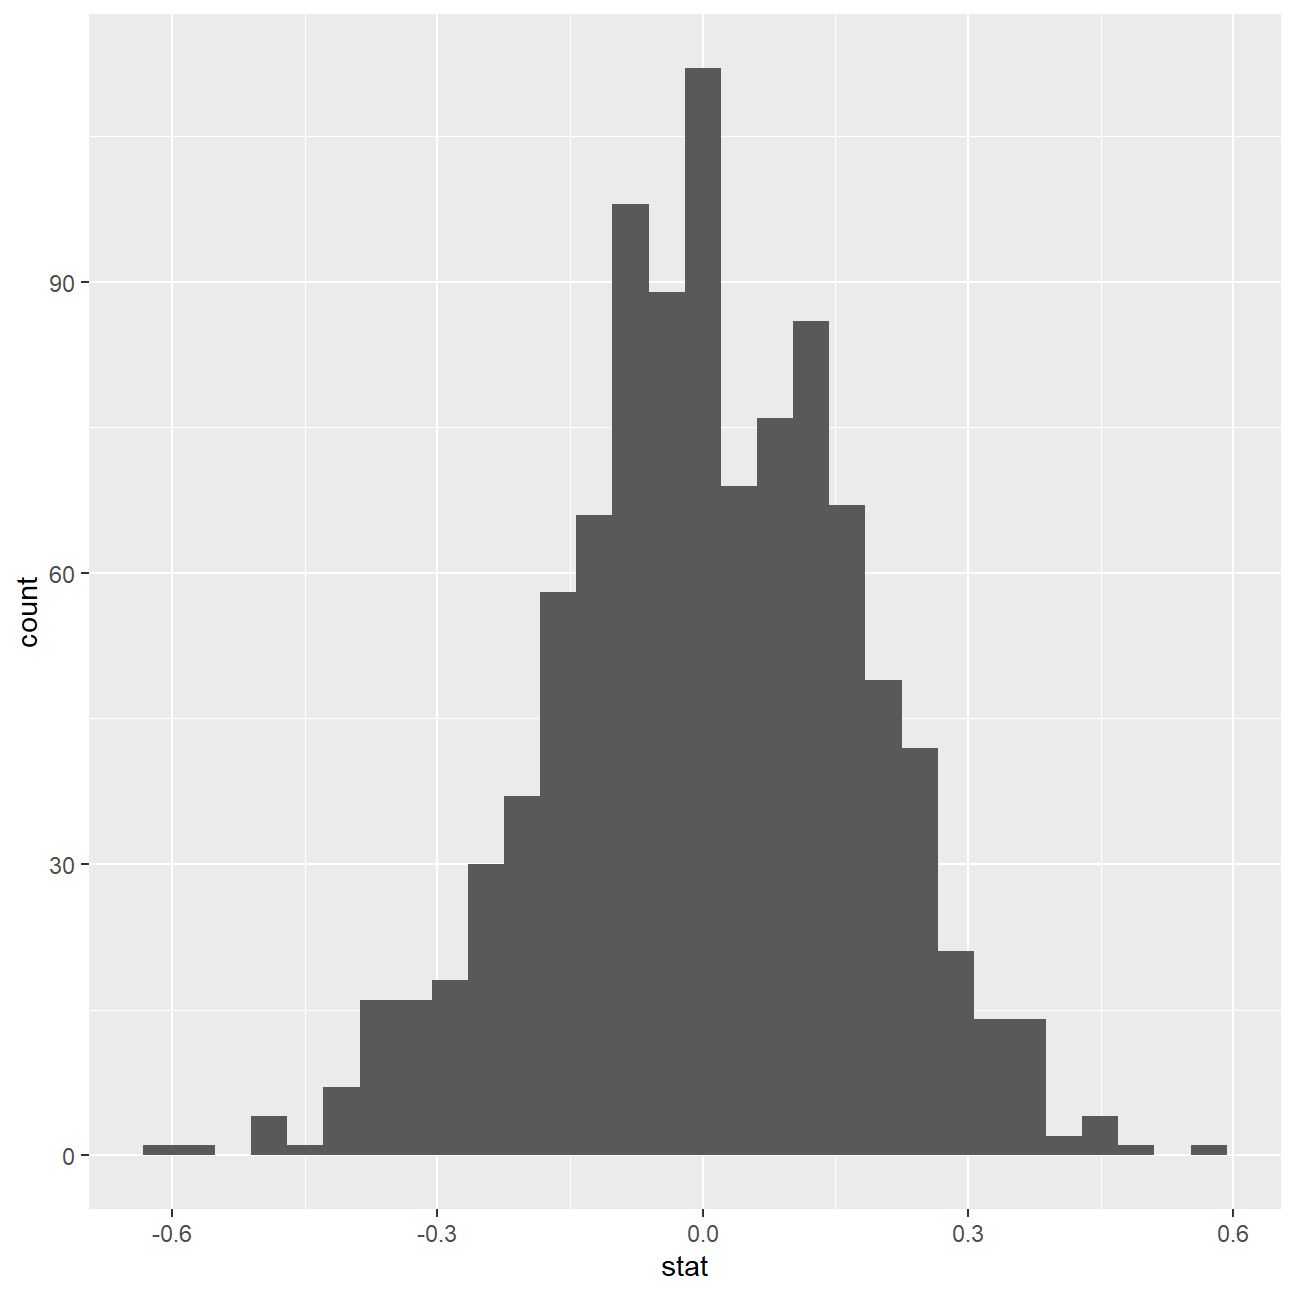
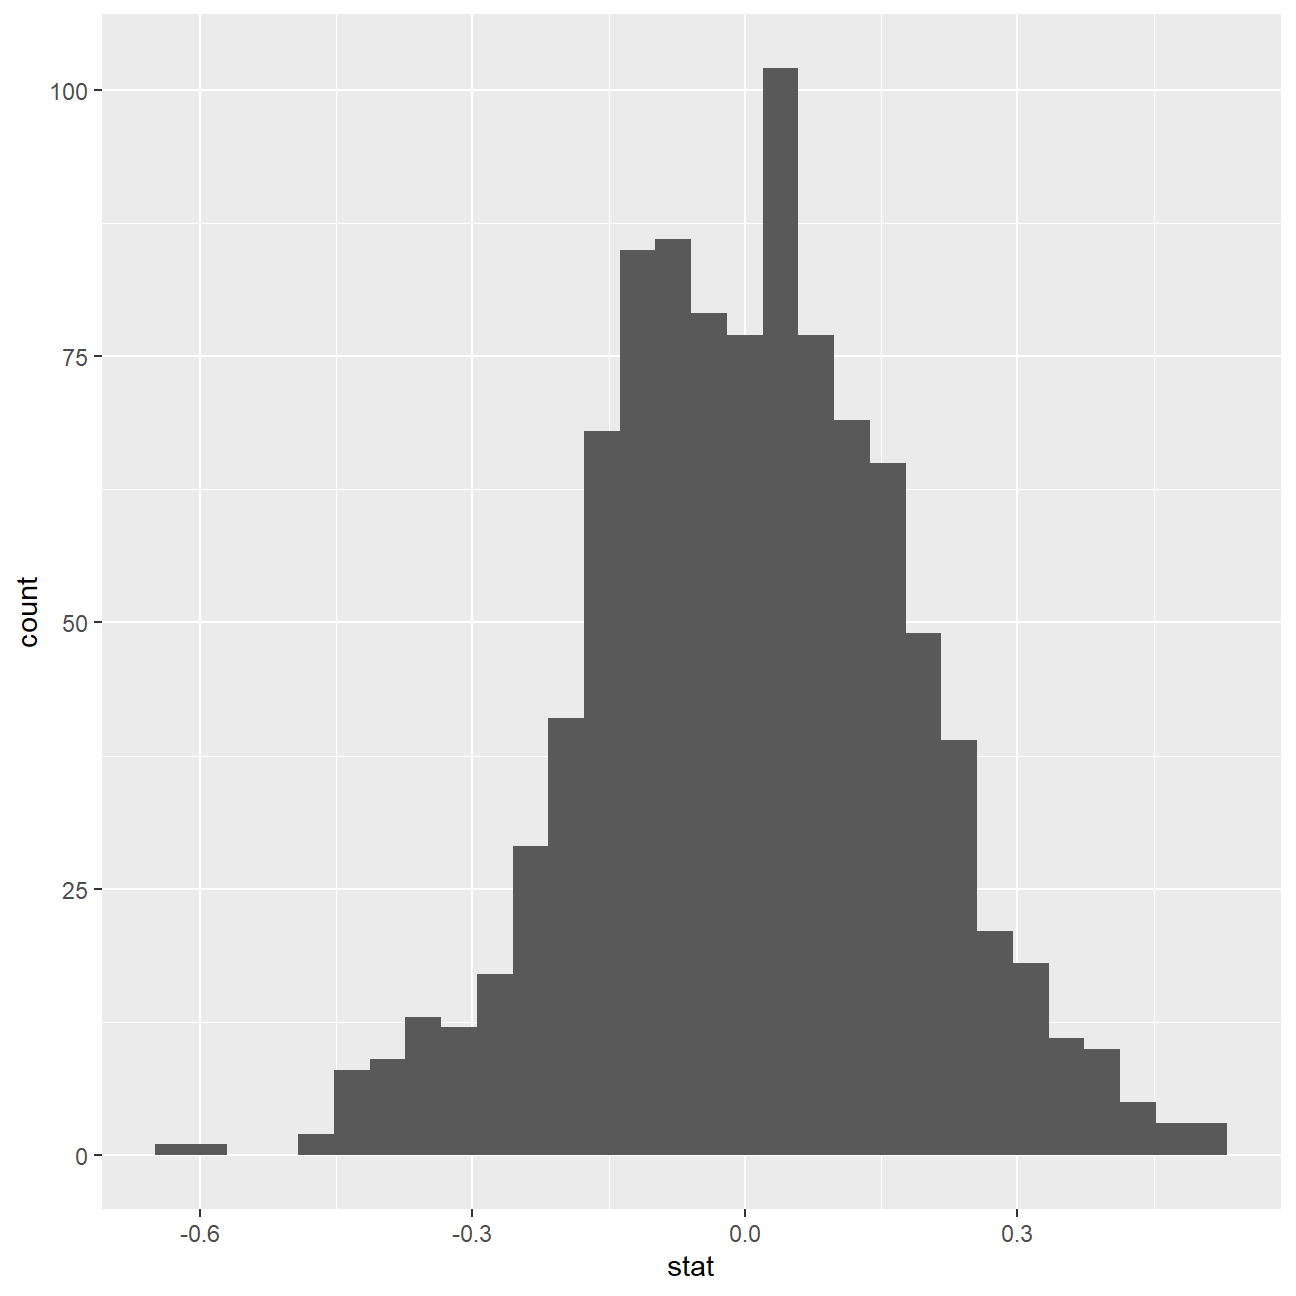
pj3

diff --git a/content/projects/project3/index.html b/content/projects/project3/index.html
@@ -352,18 +352,18 @@ obs_diff</code></pre>
   calculate(stat = &quot;diff in means&quot;, order = c(TRUE, FALSE))
 null_dist</code></pre>
 <pre><code>## # A tibble: 1,000 x 2
-##    replicate      stat
-##        &lt;int&gt;     &lt;dbl&gt;
-##  1         1  0.115   
-##  2         2 -0.0904  
-##  3         3  0.000524
-##  4         4  0.159   
-##  5         5 -0.148   
-##  6         6 -0.00467 
-##  7         7 -0.0592  
-##  8         8  0.0603  
-##  9         9 -0.0177  
-## 10        10 -0.168   
+##    replicate    stat
+##        &lt;int&gt;   &lt;dbl&gt;
+##  1         1 -0.155 
+##  2         2 -0.246 
+##  3         3 -0.197 
+##  4         4  0.281 
+##  5         5  0.107 
+##  6         6 -0.155 
+##  7         7  0.0681
+##  8         8 -0.140 
+##  9         9  0.0265
+## 10        10 -0.166 
 ## # ... with 990 more rows</code></pre>
 <pre class="r"><code>ggplot(data = null_dist, aes(x = stat)) +
   geom_histogram()</code></pre>
